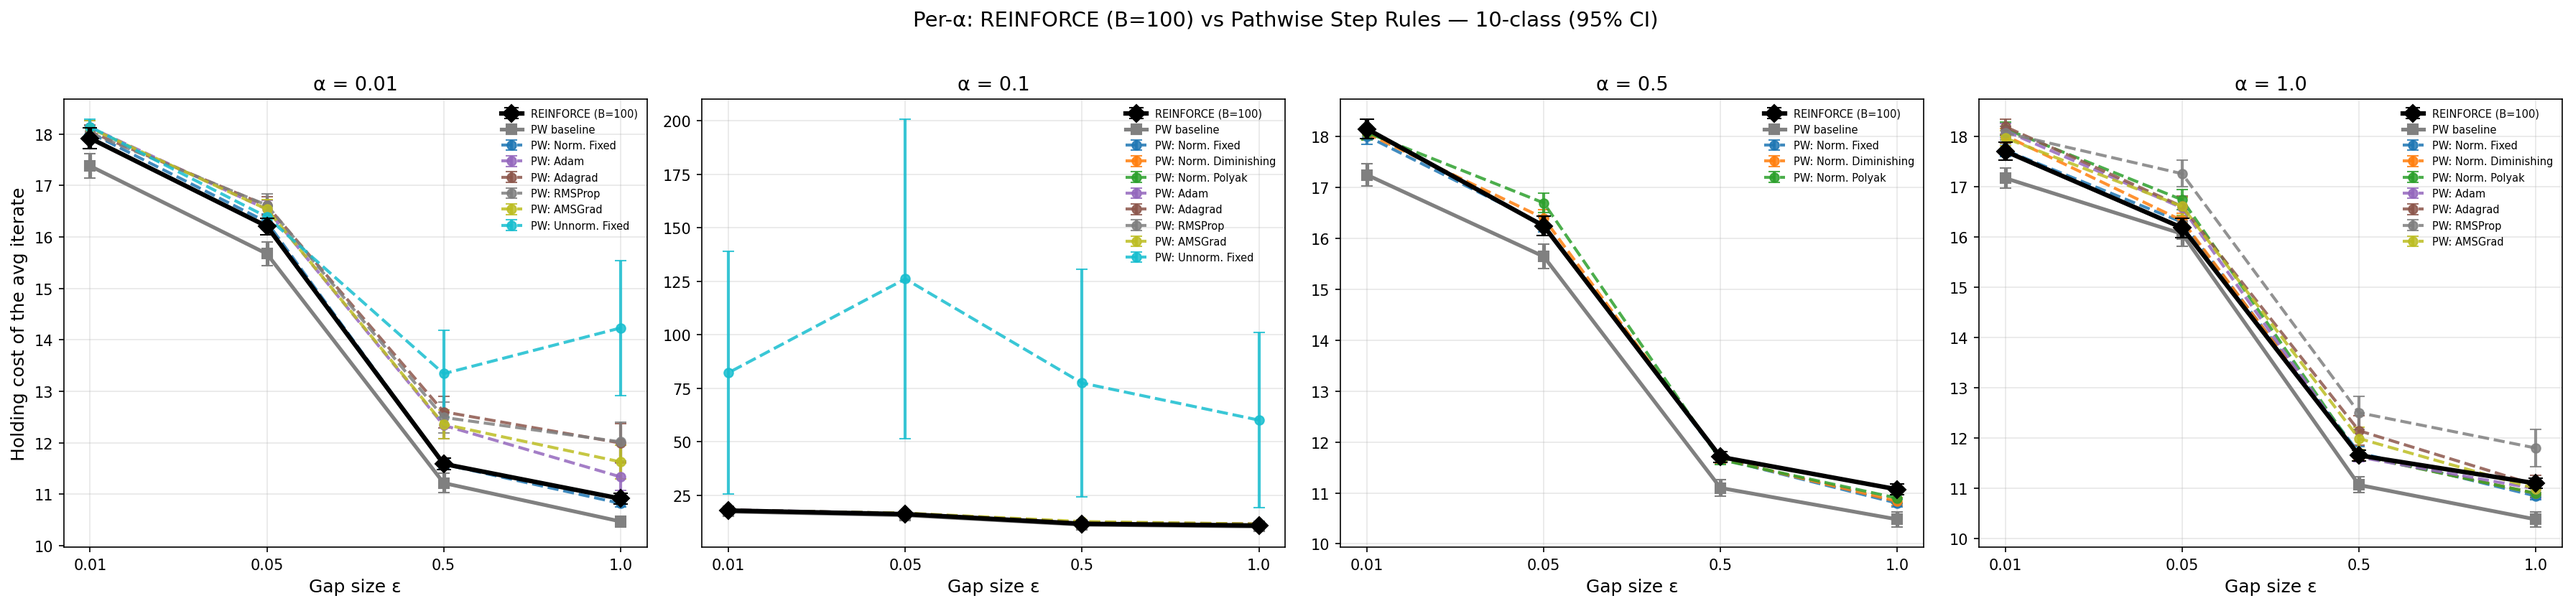
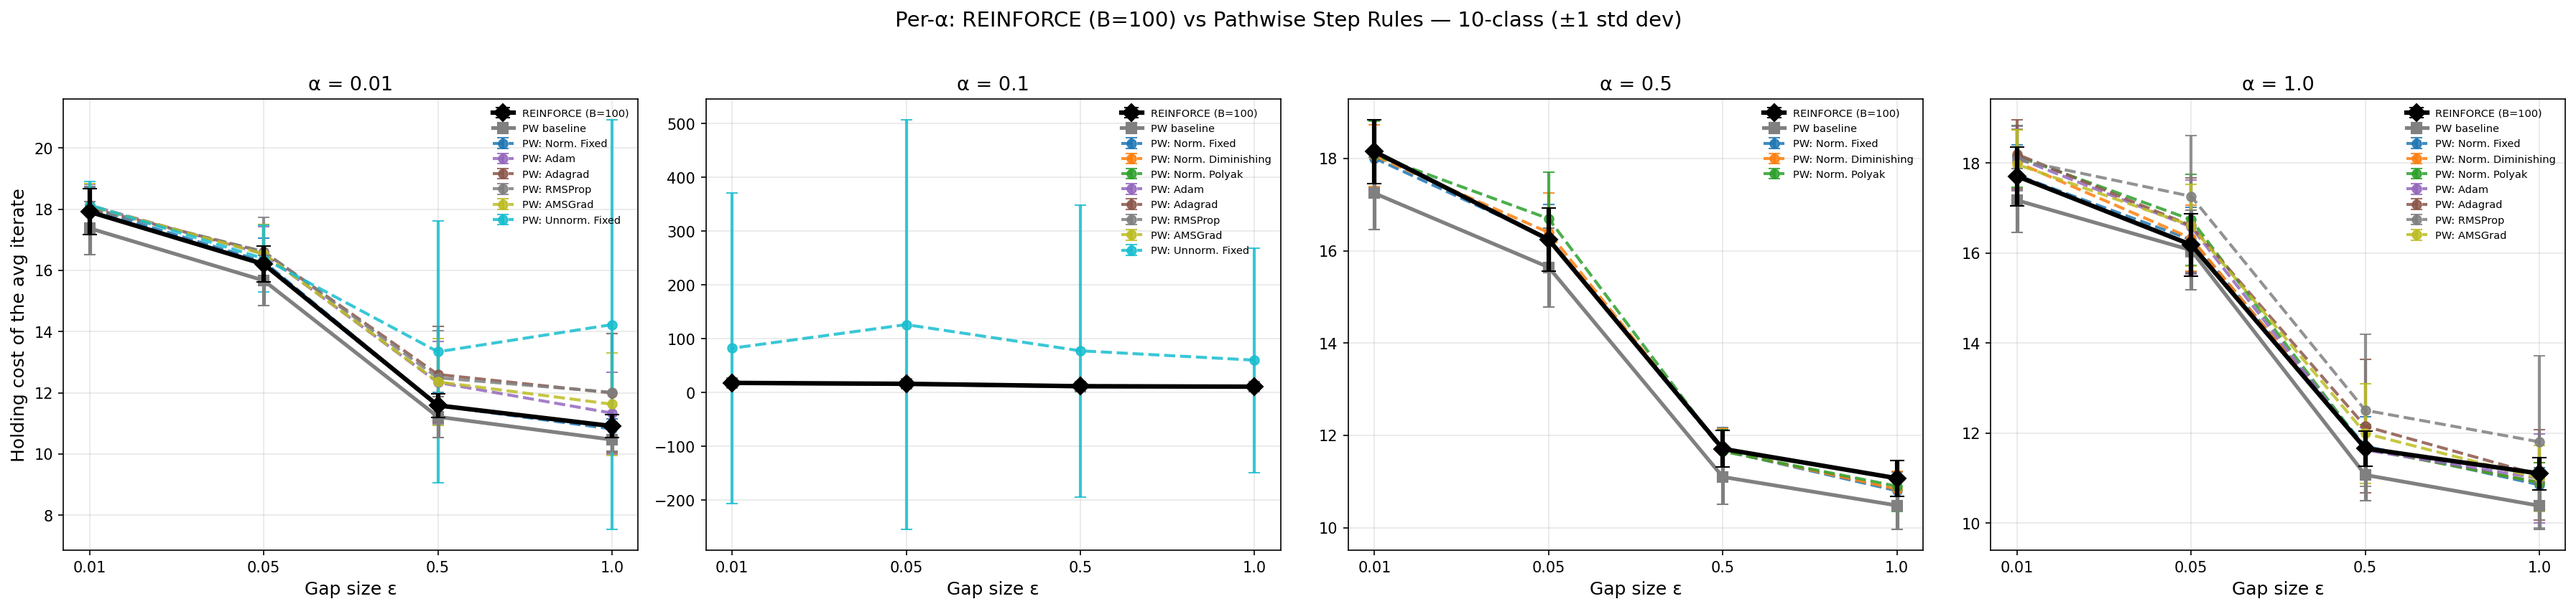
change error bars

diff --git a/cmu/ablation_plots.py b/cmu/ablation_plots.py
@@ -57,7 +57,7 @@ def get_costs_per_gap(data):
 #   X-axis: gap ε (decreasing → right to left via invert)
 #   Y-axis: avg holding cost
 #   Lines : one per ablation value, solid = Pathwise, dashed = REINFORCE
-#   Error bars: 95% CI across 100 runs × 4 alphas
+#   Error bars: ±1 std dev across 100 runs × 4 alphas
 # ─────────────────────────────────────────────────────────────────
 fig, axes = plt.subplots(2, 2, figsize=(14, 10))
 axes = axes.flatten()
@@ -76,19 +76,19 @@ for idx, (axis_name, axis_values) in enumerate(ABLATIONS.items()):
         rf_by_gap = get_costs_per_gap(rf_data)
 
         pw_means = [np.mean(pw_by_gap[g]) for g in GAPS]
-        pw_ci = [1.96 * np.std(pw_by_gap[g]) / np.sqrt(len(pw_by_gap[g])) for g in GAPS]
+        pw_std = [np.std(pw_by_gap[g]) for g in GAPS]
         rf_means = [np.mean(rf_by_gap[g]) for g in GAPS]
-        rf_ci = [1.96 * np.std(rf_by_gap[g]) / np.sqrt(len(rf_by_gap[g])) for g in GAPS]
+        rf_std = [np.std(rf_by_gap[g]) for g in GAPS]
 
         lbl = AXIS_VAL_FMT[axis_name](val)
         is_baseline = (val == BASELINE[axis_name])
         lw_pw = 3.0 if is_baseline else 2.0
         lw_rf = 2.5 if is_baseline else 1.5
 
-        ax.errorbar(x_pos, pw_means, yerr=pw_ci, marker='s', linestyle='-',
+        ax.errorbar(x_pos, pw_means, yerr=pw_std, marker='s', linestyle='-',
                     linewidth=lw_pw, capsize=4, color=colors[vi],
                     label=f'PW: {lbl}' + (' *' if is_baseline else ''))
-        ax.errorbar(x_pos, rf_means, yerr=rf_ci, marker='o', linestyle='--',
+        ax.errorbar(x_pos, rf_means, yerr=rf_std, marker='o', linestyle='--',
                     linewidth=lw_rf, capsize=4, color=colors[vi], alpha=0.75,
                     label=f'RF: {lbl}' + (' *' if is_baseline else ''))
 
@@ -103,7 +103,7 @@ for idx, (axis_name, axis_values) in enumerate(ABLATIONS.items()):
 
 fig.suptitle(
     'Ablation Analysis — Pathwise (solid) vs REINFORCE (dashed)\n'
-    '(* = baseline setting; error bars = 95% CI)',
+    '(* = baseline setting; error bars = ±1 std dev)',
     fontsize=14, y=1.01
 )
 plt.tight_layout()
@@ -169,7 +169,8 @@ fig, axes = plt.subplots(4, 4, figsize=(20, 16))
 
 for row, (axis_name, axis_values) in enumerate(ABLATIONS.items()):
     n_vals = len(axis_values)
-    colors = cm.viridis(np.linspace(0.15, 0.85, n_vals))
+    pw_colors = cm.Blues(np.linspace(0.4, 0.9, n_vals))
+    rf_colors = cm.Reds(np.linspace(0.4, 0.9, n_vals))
 
     for col, alpha in enumerate(ALPHAS):
         ax = axes[row][col]
@@ -197,16 +198,12 @@ for row, (axis_name, axis_values) in enumerate(ABLATIONS.items()):
             is_baseline = (val == BASELINE[axis_name])
             lw_pw = 2.5 if is_baseline else 1.5
 
-            ax.plot(x_pos, pw_means, marker='s', linestyle='-',
-                    linewidth=lw_pw, color=colors[vi],
-                    label=f'PW {lbl}' if col == 0 else None)
-            ax.fill_between(x_pos, pw_means - pw_std, pw_means + pw_std,
-                            color=colors[vi], alpha=0.15)
-            ax.plot(x_pos, rf_means, marker='o', linestyle='--',
-                    linewidth=lw_pw * 0.7, color=colors[vi], alpha=0.7,
-                    label=f'RF {lbl}' if col == 0 else None)
-            ax.fill_between(x_pos, rf_means - rf_std, rf_means + rf_std,
-                            color=colors[vi], alpha=0.08)
+            ax.errorbar(x_pos, pw_means, yerr=pw_std, marker='s', linestyle='-',
+                        linewidth=lw_pw, capsize=4, color=pw_colors[vi],
+                        label=f'PW {lbl}' if col == 0 else None)
+            ax.errorbar(x_pos, rf_means, yerr=rf_std, marker='o', linestyle='--',
+                        linewidth=lw_pw * 0.7, capsize=4, color=rf_colors[vi],
+                        label=f'RF {lbl}' if col == 0 else None)
 
         ax.set_xticks(x_pos)
         ax.set_xticklabels([str(g) for g in GAPS_FLOAT], fontsize=8)
@@ -222,8 +219,8 @@ for row, (axis_name, axis_values) in enumerate(ABLATIONS.items()):
             ax.set_xlabel('Gap size ε', fontsize=10)
 
 fig.suptitle(
-    'Per-α Ablation: Pathwise (solid) vs REINFORCE (dashed)\n'
-    r'Rows = ablation axis, Columns = learning rate α  (shaded = ±1 std dev)',
+    'Per-α Ablation: Pathwise (solid ■) vs REINFORCE (dashed ●)\n'
+    r'Rows = ablation axis, Columns = learning rate α  (error bars = 95% CI)',
     fontsize=15, y=1.01
 )
 plt.tight_layout()

diff --git a/cmu/fig9_1_errorbars.py b/cmu/fig9_1_errorbars.py
@@ -39,7 +39,7 @@ N_QUEUES = 5
 # ─────────────────────────────────────────────────────────────────
 # Figure 1: Multi-panel Fig 9.1 — one subplot per ε
 #   Bar chart: policy score θ_j per queue, PW vs RF
-#   Error bars: 95% CI across all runs (pooled over alphas)
+#   Error bars: ±1 std dev across all runs (pooled over alphas)
 # ─────────────────────────────────────────────────────────────────
 fig, axes = plt.subplots(1, len(GAPS), figsize=(4.2 * len(GAPS), 5), sharey=True)
 
@@ -61,9 +61,9 @@ for gi, gap in enumerate(GAPS):
     rf_iterates = np.array(rf_iterates)
 
     pw_mean = np.mean(pw_iterates, axis=0)
-    pw_ci = 1.96 * np.std(pw_iterates, axis=0) / np.sqrt(len(pw_iterates))
+    pw_ci = np.std(pw_iterates, axis=0)
     rf_mean = np.mean(rf_iterates, axis=0)
-    rf_ci = 1.96 * np.std(rf_iterates, axis=0) / np.sqrt(len(rf_iterates))
+    rf_ci = np.std(rf_iterates, axis=0)
 
     x = np.arange(N_QUEUES)
     width = 0.35
@@ -88,7 +88,7 @@ for gi, gap in enumerate(GAPS):
 
 fig.suptitle(
     'Fig 9.1 — Learned Policy Scores by Queue (5-class)\n'
-    'Error bars = 95% CI across 1000 independent runs × 4 learning rates',
+    'Error bars = ±1 std dev across 1000 independent runs × 4 learning rates',
     fontsize=13, y=1.03,
 )
 plt.tight_layout()
@@ -171,7 +171,7 @@ for alpha in ALPHAS:
         if gap in pw[alpha]:
             pw_costs = np.array([r['avg_cost'] for r in pw[alpha][gap]])
             pw_means.append(np.mean(pw_costs))
-            pw_ci.append(1.96 * np.std(pw_costs) / np.sqrt(len(pw_costs)))
+            pw_ci.append(np.std(pw_costs))
         else:
             pw_means.append(np.nan)
             pw_ci.append(0)
@@ -179,7 +179,7 @@ for alpha in ALPHAS:
         if gap in rf[alpha]:
             rf_costs = np.array([r['avg_cost'] for r in rf[alpha][gap]])
             rf_means.append(np.mean(rf_costs))
-            rf_ci.append(1.96 * np.std(rf_costs) / np.sqrt(len(rf_costs)))
+            rf_ci.append(np.std(rf_costs))
         else:
             rf_means.append(np.nan)
             rf_ci.append(0)
@@ -195,7 +195,7 @@ ax.set_xticklabels([str(float(g)) for g in gaps_sorted])
 ax.invert_xaxis()
 ax.set_xlabel('Gap size ε', fontsize=12)
 ax.set_ylabel('Holding cost of the avg iterate', fontsize=12)
-ax.set_title('Fig 9.2 — 5-class multiserver (1000 runs, 95% CI)', fontsize=13)
+ax.set_title('Fig 9.2 — 5-class multiserver (1000 runs, ±1 std dev)', fontsize=13)
 ax.legend(frameon=False, fontsize=8, ncol=2)
 ax.grid(True, alpha=0.3)
 plt.tight_layout()

diff --git a/cmu/step_rule_K100_comparison.py b/cmu/step_rule_K100_comparison.py
@@ -26,16 +26,16 @@ def load_json(filename):
 
 
 def get_costs(data, alpha, gaps):
-    means, cis = [], []
+    means, stds = [], []
     for gap in gaps:
         if alpha in data and gap in data[alpha]:
             costs = np.array([r['avg_cost'] for r in data[alpha][gap]])
             means.append(np.mean(costs))
-            cis.append(1.96 * np.std(costs) / np.sqrt(len(costs)))
+            stds.append(np.std(costs))
         else:
             means.append(np.nan)
-            cis.append(0)
-    return np.array(means), np.array(cis)
+            stds.append(0)
+    return np.array(means), np.array(stds)
 
 
 def best_alpha_costs(data, gaps):
@@ -50,8 +50,8 @@ def best_alpha_costs(data, gaps):
             m = np.mean(costs)
             if m < best_mean:
                 best_mean = m
-                ci = 1.96 * np.std(costs) / np.sqrt(len(costs))
-                best = (m, ci, alpha)
+                sd = np.std(costs)
+                best = (m, sd, alpha)
         if best is not None:
             results[gap] = best
     return results
@@ -112,7 +112,7 @@ ax.set_xticklabels([str(g) for g in GAPS_FLOAT])
 ax.invert_xaxis()
 ax.set_xlabel('Gap size ε', fontsize=13)
 ax.set_ylabel('Holding cost of the avg iterate', fontsize=13)
-ax.set_title('K=20 vs K=100: Pathwise Step Rules (best α, 95% CI)', fontsize=14)
+ax.set_title('K=20 vs K=100: Pathwise Step Rules (best α, ±1 std dev)', fontsize=14)
 ax.legend(frameon=False, fontsize=7.5, loc='upper right')
 ax.grid(True, alpha=0.3)
 plt.tight_layout()
@@ -165,7 +165,7 @@ for ri, rule in enumerate(rules):
     ax.legend(fontsize=6, frameon=False, ncol=2)
     ax.grid(True, alpha=0.3)
 
-fig.suptitle('K=100 Per-Rule: PW (solid) vs RF (dashed) at matching α (95% CI)', fontsize=14, y=1.02)
+fig.suptitle('K=100 Per-Rule: PW (solid) vs RF (dashed) at matching α (±1 std dev)', fontsize=14, y=1.02)
 plt.tight_layout()
 plt.savefig(os.path.join(CMU_DIR, 'step_rule_K100_per_rule.png'), dpi=150, bbox_inches='tight')
 plt.close()
@@ -249,7 +249,7 @@ ax.set_xticklabels([str(g) for g in GAPS_FLOAT])
 ax.invert_xaxis()
 ax.set_xlabel('Gap size ε', fontsize=13)
 ax.set_ylabel('Holding cost of the avg iterate', fontsize=13)
-ax.set_title('K=100: All Methods — PW vs RF (best α, 95% CI)', fontsize=14)
+ax.set_title('K=100: All Methods — PW vs RF (best α, ±1 std dev)', fontsize=14)
 ax.legend(frameon=False, fontsize=7, loc='upper right', ncol=2)
 ax.grid(True, alpha=0.3)
 plt.tight_layout()

diff --git a/cmu/step_rule_comparison.py b/cmu/step_rule_comparison.py
@@ -49,17 +49,17 @@ def load_json(filename):
 
 
 def get_costs(data, alpha, gaps):
-    """Return (means, ci95s) arrays for a given alpha across gaps."""
-    means, cis = [], []
+    """Return (means, stds) arrays for a given alpha across gaps."""
+    means, stds = [], []
     for gap in gaps:
         if alpha in data and gap in data[alpha]:
             costs = np.array([r['avg_cost'] for r in data[alpha][gap]])
             means.append(np.mean(costs))
-            cis.append(1.96 * np.std(costs) / np.sqrt(len(costs)))
+            stds.append(np.std(costs))
         else:
             means.append(np.nan)
-            cis.append(0)
-    return means, cis
+            stds.append(0)
+    return means, stds
 
 
 # ── Load all data ──
@@ -130,7 +130,7 @@ for ai, alpha in enumerate(rf_alphas):
         ax.set_ylabel('Holding cost of the avg iterate', fontsize=12)
 
 fig.suptitle(
-    'Per-α: REINFORCE (B=100) vs Pathwise Step Rules — 10-class (95% CI)',
+    'Per-α: REINFORCE (B=100) vs Pathwise Step Rules — 10-class (±1 std dev)',
     fontsize=14, y=1.02
 )
 plt.tight_layout()
@@ -243,7 +243,7 @@ for ri in range(n_rules_total, nrows * ncols):
 
 fig.suptitle(
     'Per-Rule Breakdown — PW (solid) vs RF (dashed) at matching α\n'
-    '10-class, 95% CI',
+    '10-class, ±1 std dev',
     fontsize=14, y=1.02
 )
 plt.tight_layout()

diff --git a/cmu/cmu_graph.py b/cmu/cmu_graph.py
@@ -89,8 +89,8 @@ for alpha in alphas:
             rf10_count += 1
             rf10_cost_list.append(x['avg_cost'])
 
-        pw10_results.append({'alpha':alpha, 'gap': gap, 'avg_cost': np.mean(pw10_cost_list), 'cost_std': 1.96*np.std(pw10_cost_list)})
-        rf10_results.append({'alpha':alpha, 'gap': gap, 'avg_cost': np.mean(rf10_cost_list), 'cost_std': 1.96*np.std(rf10_cost_list)/10})
+        pw10_results.append({'alpha':alpha, 'gap': gap, 'avg_cost': np.mean(pw10_cost_list), 'cost_std': np.std(pw10_cost_list)})
+        rf10_results.append({'alpha':alpha, 'gap': gap, 'avg_cost': np.mean(rf10_cost_list), 'cost_std': np.std(rf10_cost_list)})
 
 
 fig, ax = plt.subplots(figsize=(7.5, 4.5))
